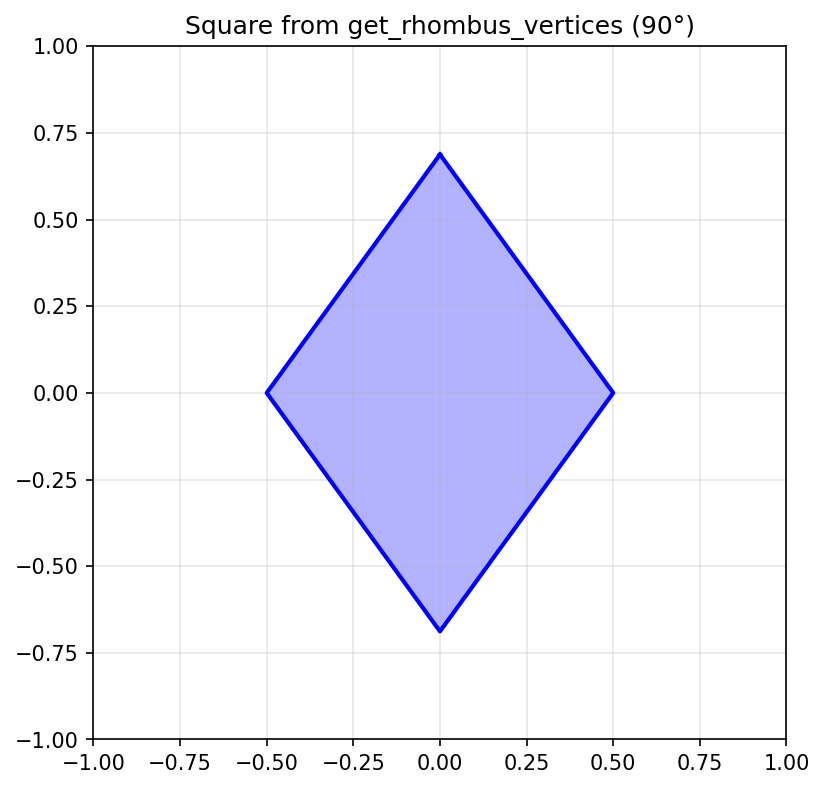
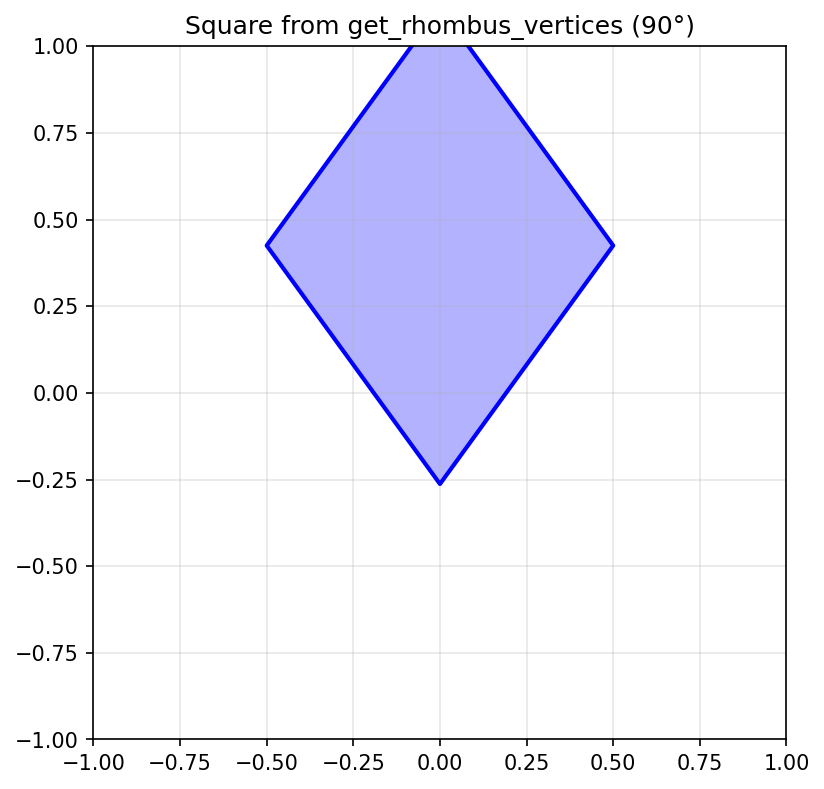
wip

Changed region(s): [[0.3034, 0.0608, 0.7585, 0.8213]]

diff --git a/test_main.py b/test_main.py
@@ -56,12 +56,8 @@ def test_square_tile():
 
 def test_draw_square():
     """Test drawing a square using get_rhombus_vertices"""
-    vertices = get_rhombus_vertices((0, 0), 90, 72)
-    print("Vertices:\n", vertices)
-    top = vertices[1]
-    bottom = vertices[3]
-    distance = np.linalg.norm(top - bottom)
-    print("Distance between top and bottom vertices (should be 1):", distance)
+    vertices = get_rhombus_vertices((0, 0.5), 90, 72)
+
 
     plot_shapes([vertices], filename='test_square.png', title='Square from get_rhombus_vertices (90°)')
 
